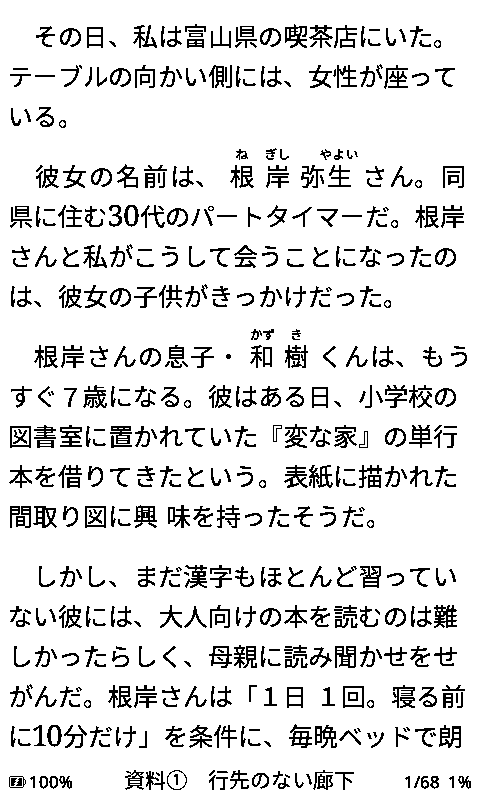
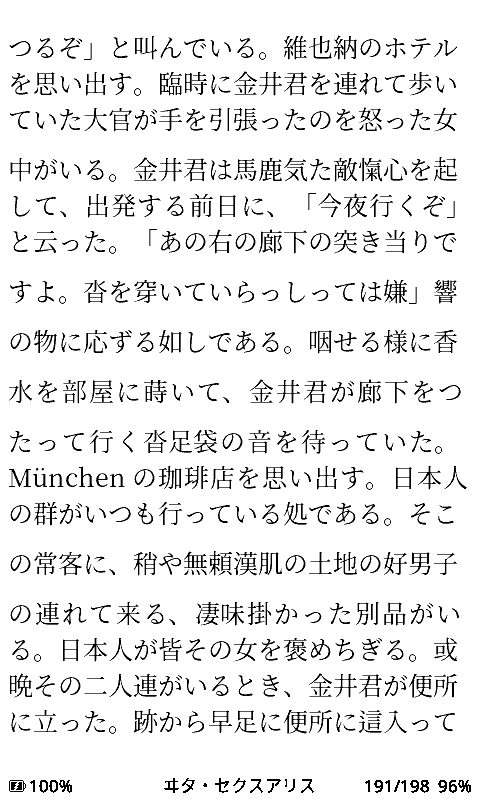
docs: use a matching horizontal shot for the vertical comparison
The vertical/horizontal pair showed two different passages at two different
text densities, so it compared nothing. Both halves are now the same page of
the same book with Vertical Text on and off, which is what the caption always
claimed.

The furigana screenshot moves to the guide, next to the toggles that control
it.

diff --git a/USER_GUIDE.md b/USER_GUIDE.md
@@ -679,7 +679,11 @@ book declares `<dc:language>ja</dc:language>`, with no setting to find.
 The reader menu (**Confirm**) gains **Vertical Text: ON/OFF** and **Furigana: ON/OFF** for Japanese books. Both
 toggle in place without leaving the menu, and both are remembered per book.
 
-<p align="center"><img src="docs/images/screenshots/reader-settings.png" width="260" alt="Reader settings showing the vertical text and furigana toggles"></p>
+<p align="center">
+  <img src="docs/images/screenshots/reader-settings.png" width="260" alt="Reader settings showing the vertical text and furigana toggles">
+  <img src="docs/images/screenshots/vertical-text-furigana.png" width="260" alt="Vertical text with furigana beside the kanji">
+</p>
+<p align="center"><em>The toggles, and furigana set beside the kanji where the book provides it</em></p>
 
 ### 6.2 Word Lookup
 

diff --git a/README.md b/README.md
@@ -23,9 +23,9 @@ Japanese books are detected from their metadata and set vertically: right-to-lef
 
 <p align="center">
   <img src="docs/images/screenshots/vertical-text.png" width="260" alt="Vertical Japanese text">
-  <img src="docs/images/screenshots/vertical-text-furigana.png" width="260" alt="Vertical text with furigana beside the kanji">
+  <img src="docs/images/screenshots/horizontal-text.png" width="260" alt="The same passage with vertical text switched off">
 </p>
-<p align="center"><em>Vertical text, and furigana beside the kanji where the book provides it</em></p>
+<p align="center"><em>The same passage, Vertical Text on and off</em></p>
 
 ### Dictionary and word lookup
 
